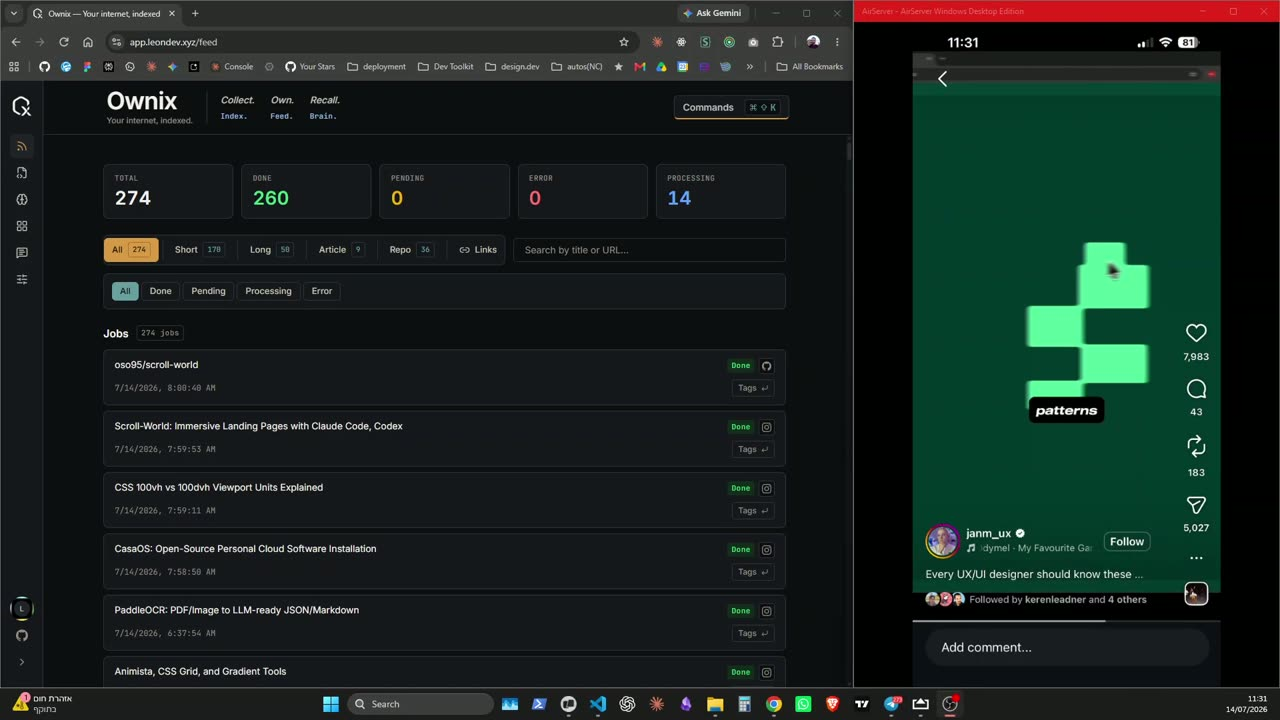
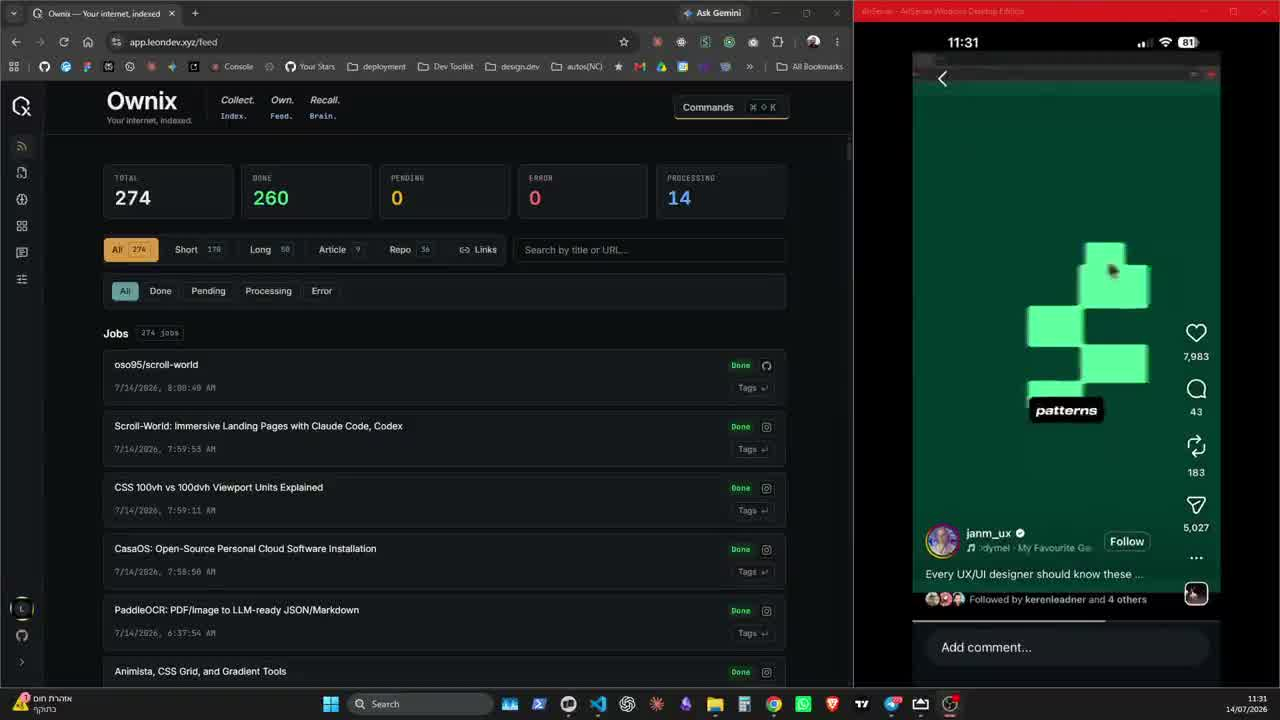
perf(web): three Lighthouse easy wins on the landing page (#429)
1. Avatar image: add sizes="40px" to the Next Image component.
   Without it, Next requested the w=1080 breakpoint for a 40x40px
   avatar - 58.6KB where 98%% (57.8KB) was wasted per Lighthouse's
   image-delivery-insight.
2. Footer 'back to top' link: it wraps only an aria-hidden logo with
   no accessible name (Lighthouse link-name audit, scoring 0). Added
   aria-label="Back to top".
3. Demo poster JPG: re-encoded at higher compression (q:v 4 -> q:v 12).
   81.8KB -> 43.3KB, no visible quality loss at display size — same
   move as the video re-encode in #427.

diff --git a/web/app/page.tsx b/web/app/page.tsx
@@ -233,6 +233,7 @@ export default function LandingPage() {
                 <Image
                   src={leonAvatar}
                   alt=""
+                  sizes="40px"
                   className="h-10 w-10 rounded-full object-cover"
                 />
                 Leon (me), building Ownix
@@ -554,6 +555,7 @@ export default function LandingPage() {
           <div className="grid grid-cols-[auto_1fr] items-center gap-x-3">
             <a
               href="#top"
+              aria-label="Back to top"
               className="hover:text-signal-bright"
             >
               <OwnixLogo